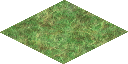
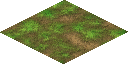
fixed trees popping in when panning bug

diff --git a/src/main.c b/src/main.c
@@ -49,30 +49,32 @@ void draw_obj(SDL_Renderer* rend, win_data* win_d, map_data* map_d, tex_data* te
 
 	rect.x = (x - y) * TILE_W / 2 + map_d->x_off + cam_d->frame * iso_x(cam_d->rate * cam_d->x_dir, cam_d->rate * cam_d->y_dir) + 30;
 	rect.y = (y + x) * TILE_H / 2 + map_d->y_off + cam_d->frame * iso_y(cam_d->rate * cam_d->x_dir, cam_d->rate * cam_d->y_dir) - 85;
+
 	switch ((x + map_d->x_cur + y + map_d->y_cur) % 5) {
 		case 0:
 			break;
 		case 1:
 			rect.x -= 8;
-			rect.y -= 8;
+			rect.y -= 4;
 			break;
 		case 2:
 			rect.x += 8;
-			rect.y += 8;
+			rect.y += 4;
 			break;
 		case 3:
 			rect.x -= 8;
-			rect.y += 8;
+			rect.y += 4;
 			break;
 		case 4:
 			rect.x += 8;
-			rect.y -= 8;
+			rect.y -= 4;
 			break;
 	}
 
-	if (rect.x > -rect.w && rect.x < win_d->win_w && rect.y > -rect.h && rect.y < win_d->win_h) {
+	if (rect.x > -rect.w && rect.x < win_d->win_w  && rect.y > -rect.h && rect.y < win_d->win_h) {
 		rect.x += map_d->x_off2;
 		rect.y += map_d->y_off2;
+
 		switch (map_d->objs[x + map_d->x_cur][y + map_d->y_cur]) {
 			case 0:
 				break;
@@ -110,15 +112,15 @@ void draw_bg(SDL_Renderer* rend, win_data* win_d, map_data* map_d, tex_data* tex
 
 // draws the foreground
 void draw_fg(SDL_Renderer* rend, win_data* win_d, map_data* map_d, tex_data* tex_d, cam_data* cam_d) {
-	for (int x = 0; x < map_d->win_sz; x++)
-		for (int y = 0; y < map_d->win_sz; y++)
+	for (int x = -2; x < (int) map_d->win_sz + 2; x++)
+		for (int y = -2; y < (int) map_d->win_sz + 2; y++)
 			draw_obj(rend, win_d, map_d, tex_d, cam_d, x, y);
 }
 
 // initialise the textures
 int texture_init(SDL_Renderer* rend, tex_data* tex_d) {
 	// load tile textures
-	if (load_texture(rend, &tex_d->tile_tex[GRASS], "../resources/tiles/grassA.png")) {
+	if (load_texture(rend, &tex_d->tile_tex[GRASS], "../resources/tiles/grassB.png")) {
 		fprintf(stderr, "Failed to load texture 0\n");
 		return -1;
 	}
@@ -146,10 +148,14 @@ int event(win_data* win_d, map_data* map_d, cam_data* cam_d) {
 	int button, mouse_x, mouse_y;
 	button = SDL_GetMouseState(&mouse_x, &mouse_y);
 	
-	if (button == SDL_BUTTON(SDL_BUTTON_LEFT))
-		map_d->objs[get_column(map_d, cam_d, mouse_x, mouse_y)][get_row(map_d, cam_d,  mouse_x,  mouse_y)] = 1;
-	else if (button == SDL_BUTTON(SDL_BUTTON_RIGHT))
-		map_d->objs[get_column(map_d, cam_d, mouse_x, mouse_y)][get_row(map_d, cam_d, mouse_x,  mouse_y)] = 0;
+	int col = get_column(map_d, cam_d, mouse_x, mouse_y);
+	int row = get_row(map_d, cam_d, mouse_x, mouse_y);
+	if (col > 10 && row > 10 && col < map_d->map_sz - 10 && row < map_d->map_sz - 10) {
+		if (button == SDL_BUTTON(SDL_BUTTON_LEFT))
+			map_d->tiles[col][row] = 1;
+		else if (button == SDL_BUTTON(SDL_BUTTON_RIGHT))
+			map_d->tiles[col][row] = 0;
+	}
 
 	cam_pan(win_d, map_d, cam_d, mouse_x, mouse_y);
 
@@ -224,15 +230,14 @@ int main(void) {
 	if (map_init(&win_data, &map_data)) {
 		return 1;
 	}
-	map_data.tiles[10][10] = 1;
-	map_data.objs[10][10] = 1;
 
 	tex_data tex_data;
 
 	cam_data cam_data = {
 		.frame = 0,
 		.rate = 8,	// should be a power of 2
-		.x_dir = 0, .y_dir = 0
+		.x_dir = 0,
+		.y_dir = 0
 	};
 
 	// attempt to initialise graphics and timer system

diff --git a/src/camera.c b/src/camera.c
@@ -2,7 +2,7 @@
 
 // moves the camera to the right one tile
 void move_r(map_data* map_d, cam_data* cam_d) {
-	if (map_d->x_cur < map_d->map_sz - map_d->win_sz && map_d->y_cur > 0) {
+	if (map_d->x_cur < map_d->map_sz - map_d->win_sz - 2 && map_d->y_cur > 2) {
 		cam_d->x_dir = 1;
 		cam_d->y_dir = -1;
 		cam_d->rate /= 2;
@@ -15,7 +15,7 @@ void move_r(map_data* map_d, cam_data* cam_d) {
 
 // moves the camera up and to the right one tile
 void move_ur(map_data* map_d, cam_data* cam_d) {
-	if (map_d->y_cur > 0) {
+	if (map_d->y_cur > 2) {
 		cam_d->x_dir = 0;
 		cam_d->y_dir = -1;
 		cam_d->frame++;
@@ -24,7 +24,7 @@ void move_ur(map_data* map_d, cam_data* cam_d) {
 
 // moves the camera up one tile
 void move_u(map_data* map_d, cam_data* cam_d) {
-	if (map_d->x_cur > 0 && map_d->y_cur > 0) {
+	if (map_d->x_cur > 2 && map_d->y_cur > 2) {
 		cam_d->x_dir = -1;
 		cam_d->y_dir = -1;
 		cam_d->frame++;
@@ -36,7 +36,7 @@ void move_u(map_data* map_d, cam_data* cam_d) {
 
 // moves the camera up and to the left one tile
 void move_ul(map_data* map_d, cam_data* cam_d) {
-	if (map_d->x_cur > 0) {
+	if (map_d->x_cur > 2) {
 		cam_d->x_dir = -1;
 		cam_d->y_dir = 0;
 		cam_d->frame++;
@@ -45,7 +45,7 @@ void move_ul(map_data* map_d, cam_data* cam_d) {
 
 // moves the camera to the left one tile
 void move_l(map_data* map_d, cam_data* cam_d) {
-	if (map_d->x_cur > 0 && map_d->y_cur < map_d->map_sz - map_d->win_sz) {
+	if (map_d->x_cur > 2 && map_d->y_cur < map_d->map_sz - map_d->win_sz - 2) {
 		cam_d->x_dir = -1;
 		cam_d->y_dir = 1;
 		cam_d->rate /= 2;
@@ -58,7 +58,7 @@ void move_l(map_data* map_d, cam_data* cam_d) {
 
 // moves the camera down and to the left one tile each
 void move_dl(map_data* map_d, cam_data* cam_d) {
-	if (map_d->y_cur < map_d->map_sz - map_d->win_sz) {
+	if (map_d->y_cur < map_d->map_sz - map_d->win_sz - 2) {
 		cam_d->x_dir = 0;
 		cam_d->y_dir = 1;
 		cam_d->frame++;
@@ -67,7 +67,7 @@ void move_dl(map_data* map_d, cam_data* cam_d) {
 
 // moves the camera down one tile
 void move_d(map_data* map_d, cam_data* cam_d) {
-	if (map_d->x_cur < map_d->map_sz - map_d->win_sz && map_d->y_cur < map_d->map_sz - map_d->win_sz) {
+	if (map_d->x_cur < map_d->map_sz - map_d->win_sz - 2 && map_d->y_cur < map_d->map_sz - map_d->win_sz - 2) {
 		cam_d->x_dir = 1;
 		cam_d->y_dir = 1;
 		cam_d->frame++;
@@ -79,7 +79,7 @@ void move_d(map_data* map_d, cam_data* cam_d) {
 
 // moves the camera down and to the right one tile each
 void move_dr(map_data* map_d, cam_data* cam_d) {
-	if (map_d->x_cur < map_d->map_sz - map_d->win_sz) {
+	if (map_d->x_cur < map_d->map_sz - map_d->win_sz - 2) {
 		cam_d->x_dir = 1;
 		cam_d->y_dir = 0;
 		cam_d->frame++;

diff --git a/src/map.c b/src/map.c
@@ -62,8 +62,12 @@ int map_init(win_data* win_d, map_data* map_d) {
 
 	// initialise the object map
 	for (int x = 0; x < map_d->map_sz; x++)
-		for (int y = 0; y < map_d->map_sz; y++)
-			map_d->objs[x][y] = 0;
+		for (int y = 0; y < map_d->map_sz; y++) {
+			if (x <= 10 || y <= 10 || x >= map_d->map_sz - 10 || y >= map_d->map_sz - 10)
+				map_d->objs[x][y] = 1;
+			else
+				map_d->objs[x][y] = 0;
+		}
 
 	// offset for the background rhombus derived from the intercepts
 	// between the sides of the window rectangle and the sides of the
@@ -71,8 +75,8 @@ int map_init(win_data* win_d, map_data* map_d) {
 	map_d->x_off = win_d->win_w / 2 - TILE_W / 2;
 	map_d->y_off = -win_d->win_w / 4;
 
-	map_d->x_cur = 0;
-	map_d->y_cur = 0;
+	map_d->x_cur = 10;
+	map_d->y_cur = 10;
 	map_d->x_off2 = 0;
 	map_d->y_off2 = 0;
 	return 0;
